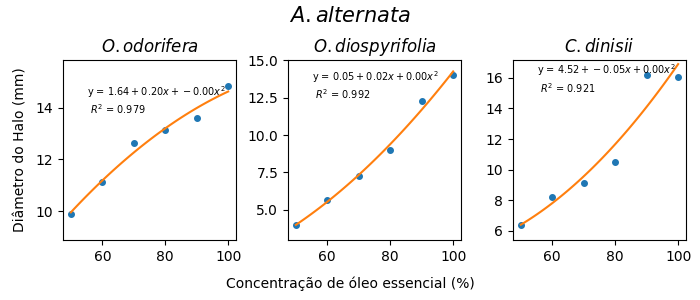
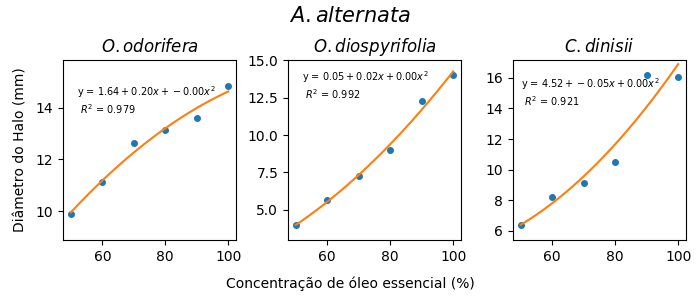
add one more graph style

diff --git a/PlotData.py b/PlotData.py
@@ -39,6 +39,7 @@ class PlotData():
             self.rSquare.append(pol['determination'])
             self.pollatex.append(poly2latex(pol['polynomial'], variable="x", width=self.degree))
 
+        self.fitcurve = pd.DataFrame(np.transpose(self.fitCurve), columns=self.param, index=ss)
 
         # fig, axarr = plt.subplots(2, 2, figsize=(6,6),sharey=False, sharex=True)
         # fig.suptitle('$\t{%s}$' % (self.fungo),fontsize=15)
@@ -79,35 +80,74 @@ class PlotData():
         # if self.savePlot:
         #     plt.savefig(self.dir + self.figname, format='png')
 
-        fig, axarr = plt.subplots(1, 3, figsize=(7,3),sharey=False, sharex=True)
+        # fig, axarr = plt.subplots(1, 3, figsize=(7,3),sharey=False, sharex=True)
+        # plt.subplots_adjust(left=0.09, bottom=0.2, top=0.8, right=0.98, wspace=0.3)
+        # fig.suptitle('$\t{%s}$' % (self.fungo),fontsize=15)
+        # fig.text(0.02, 0.5, u'Diâmetro do Halo (mm)', va='center', rotation='vertical')
+        # fig.text(0.5, 0.04, u'Concentração de óleo essencial (%)', ha='center')
+        # plt1 = axarr[0].plot(self.arg.index, self.arg[self.param[0]], '.', ms=8)
+        # plt1 = axarr[0].plot(ss, self.fitCurve[0],'-')
+        # # max and min y
+        # axarr[0].set_ylim(np.min(self.arg[self.param[0]])-1,np.max(self.arg[self.param[0]])+1)
+        # # axarr[0,0].grid(color='gray',linestyle='--')
+        # axarr[0].set_title('$\t{%s}$' %(self.param[0]))
+        # axarr[0].text(52,np.max(self.arg[self.param[0]])-1, 'y = ' + self.pollatex[0]+'\n $R^2$ = %0.3f' %  (self.rSquare[0]), fontsize=7)
+        #
+        #
+        # plt2 = axarr[1].plot(self.arg.index, self.arg[self.param[1]], '.', ms=8)
+        # plt2 = axarr[1].plot(ss, self.fitCurve[1],'-')
+        # # max and min y
+        # axarr[1].set_ylim(np.min(self.arg[self.param[1]])-1,np.max(self.arg[self.param[1]])+1)
+        # # axarr[0,1].grid(color='gray',linestyle='--')
+        # axarr[1].set_title('$\t{%s}$' %(self.param[1]))
+        # axarr[1].text(52,np.max(self.arg[self.param[1]])-1.5, 'y = ' + self.pollatex[1]+'\n $R^2$ = %0.3f' %  (self.rSquare[1]), fontsize=7)
+        #
+        # plt3 = axarr[2].plot(self.arg.index, self.arg[self.param[2]], '.', ms=8)
+        # plt3 = axarr[2].plot(ss, self.fitCurve[2],'-')
+        # # max and min y
+        # axarr[2].set_ylim(np.min(self.arg[self.param[2]])-1,np.max(self.arg[self.param[2]])+1)
+        # # axarr[1,0].grid(color='gray',linestyle='--')
+        # axarr[2].set_title('$\t{%s}$' %(self.param[2]))
+        # axarr[2].text(50,np.max(self.arg[self.param[2]])-1.9, 'y = ' + self.pollatex[2]+'\n $R^2$ = %0.3f' %  (self.rSquare[2]), fontsize=7)
+        #
+        # if self.savePlot:
+        #     plt.savefig(self.dir + self.figname, format='png')
+
+        fig, axarr = plt.subplots(1, 1, figsize=(7,7),sharey=False, sharex=True)
         plt.subplots_adjust(left=0.09, bottom=0.2, top=0.8, right=0.98, wspace=0.3)
-        fig.suptitle('$\t{%s}$' % (self.fungo),fontsize=15)
-        fig.text(0.02, 0.5, u'Diâmetro do Halo (mm)', va='center', rotation='vertical')
-        fig.text(0.5, 0.04, u'Concentração de óleo essencial (%)', ha='center')
-        plt1 = axarr[0].plot(self.arg.index, self.arg[self.param[0]], '.', ms=8)
-        plt1 = axarr[0].plot(ss, self.fitCurve[0],'-')
-        # max and min y
-        axarr[0].set_ylim(np.min(self.arg[self.param[0]])-1,np.max(self.arg[self.param[0]])+1)
-        # axarr[0,0].grid(color='gray',linestyle='--')
-        axarr[0].set_title('$\t{%s}$' %(self.param[0]))
-        axarr[0].text(55,np.max(self.arg[self.param[0]])-1, 'y = ' + self.pollatex[0]+'\n $R^2$ = %0.3f' %  (self.rSquare[0]), fontsize=7)
-
-
-        plt2 = axarr[1].plot(self.arg.index, self.arg[self.param[1]], '.', ms=8)
-        plt2 = axarr[1].plot(ss, self.fitCurve[1],'-')
-        # max and min y
-        axarr[1].set_ylim(np.min(self.arg[self.param[1]])-1,np.max(self.arg[self.param[1]])+1)
-        # axarr[0,1].grid(color='gray',linestyle='--')
-        axarr[1].set_title('$\t{%s}$' %(self.param[1]))
-        axarr[1].text(55,np.max(self.arg[self.param[1]])-1.5, 'y = ' + self.pollatex[1]+'\n $R^2$ = %0.3f' %  (self.rSquare[1]), fontsize=7)
-
-        plt3 = axarr[2].plot(self.arg.index, self.arg[self.param[2]], '.', ms=8)
-        plt3 = axarr[2].plot(ss, self.fitCurve[2],'-')
-        # max and min y
-        axarr[2].set_ylim(np.min(self.arg[self.param[2]])-1,np.max(self.arg[self.param[2]])+1)
-        # axarr[1,0].grid(color='gray',linestyle='--')
-        axarr[2].set_title('$\t{%s}$' %(self.param[2]))
-        axarr[2].text(55,np.max(self.arg[self.param[2]])-1, 'y = ' + self.pollatex[2]+'\n $R^2$ = %0.3f' %  (self.rSquare[2]), fontsize=7)
+        # fig.suptitle('$\t{%s}$' % (self.fungo),fontsize=15)
+        # fig.text(0.02, 0.5, u'Diâmetro do Halo (mm)', va='center', rotation='vertical')
+        # fig.text(0.5, 0.04, u'Concentração de óleo essencial (%)', ha='center')
+        # plt1 = self.arg.plot()
+        plt1 = self.fitcurve.plot()
+        plt.title('$\t{%s}$' % (self.fungo))
+        plt.xlabel(u'Concentração de óleo essencial (%)')
+        plt.ylabel(u'Diâmetro do Halo (mm)')
+        plt.text(60,13, 'y = ' + self.pollatex[0]+'\n $R^2$ = %0.3f' %  (self.rSquare[0]), fontsize=7, color='blue')
+        plt.text(75,6, 'y = ' + self.pollatex[1]+'\n $R^2$ = %0.3f' %  (self.rSquare[1]), fontsize=7, color='orange')
+        plt.text(55,9, 'y = ' + self.pollatex[2]+'\n $R^2$ = %0.3f' %  (self.rSquare[2]), fontsize=7, color='green')
+        # # max and min y
+        # axarr[0].set_ylim(np.min(self.arg[self.param[0]])-1,np.max(self.arg[self.param[0]])+1)
+        # # axarr[0,0].grid(color='gray',linestyle='--')
+        # axarr[0].set_title('$\t{%s}$' %(self.param[0]))
+        # axarr[0].text(52,np.max(self.arg[self.param[0]])-1, 'y = ' + self.pollatex[0]+'\n $R^2$ = %0.3f' %  (self.rSquare[0]), fontsize=7)
+        #
+        #
+        # plt2 = axarr[1].plot(self.arg.index, self.arg[self.param[1]], '.', ms=8)
+        # plt2 = axarr[1].plot(ss, self.fitCurve[1],'-')
+        # # max and min y
+        # axarr[1].set_ylim(np.min(self.arg[self.param[1]])-1,np.max(self.arg[self.param[1]])+1)
+        # # axarr[0,1].grid(color='gray',linestyle='--')
+        # axarr[1].set_title('$\t{%s}$' %(self.param[1]))
+        # axarr[1].text(52,np.max(self.arg[self.param[1]])-1.5, 'y = ' + self.pollatex[1]+'\n $R^2$ = %0.3f' %  (self.rSquare[1]), fontsize=7)
+        #
+        # plt3 = axarr[2].plot(self.arg.index, self.arg[self.param[2]], '.', ms=8)
+        # plt3 = axarr[2].plot(ss, self.fitCurve[2],'-')
+        # # max and min y
+        # axarr[2].set_ylim(np.min(self.arg[self.param[2]])-1,np.max(self.arg[self.param[2]])+1)
+        # # axarr[1,0].grid(color='gray',linestyle='--')
+        # axarr[2].set_title('$\t{%s}$' %(self.param[2]))
+        # axarr[2].text(50,np.max(self.arg[self.param[2]])-1.9, 'y = ' + self.pollatex[2]+'\n $R^2$ = %0.3f' %  (self.rSquare[2]), fontsize=7)
 
         if self.savePlot:
             plt.savefig(self.dir + self.figname, format='png')
